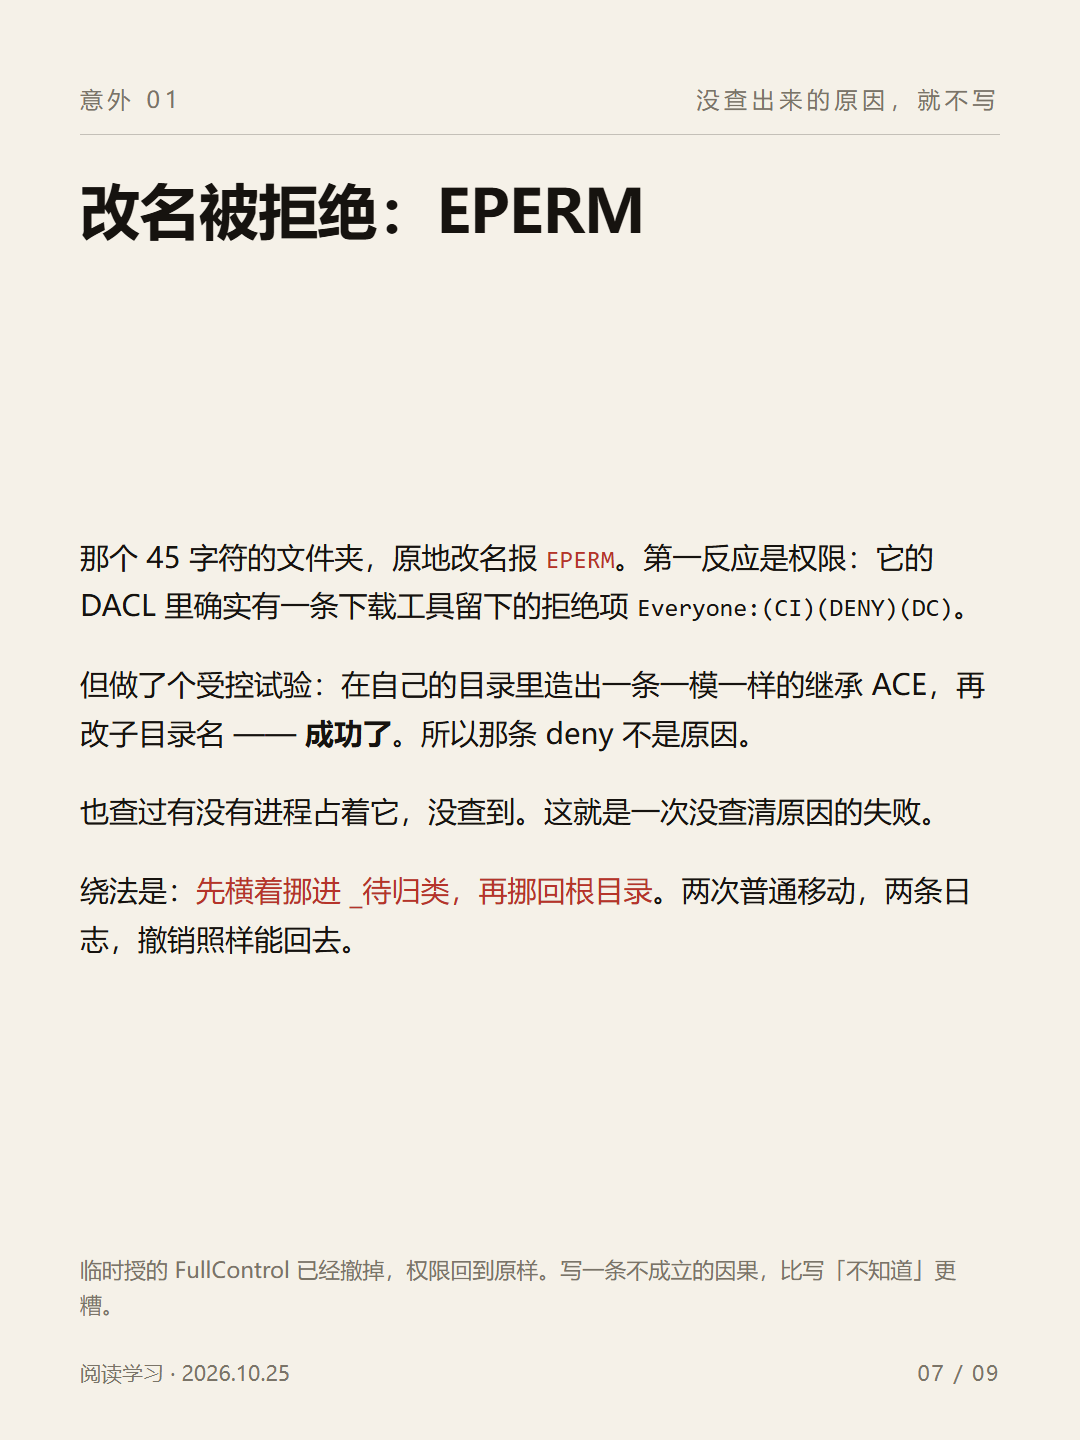
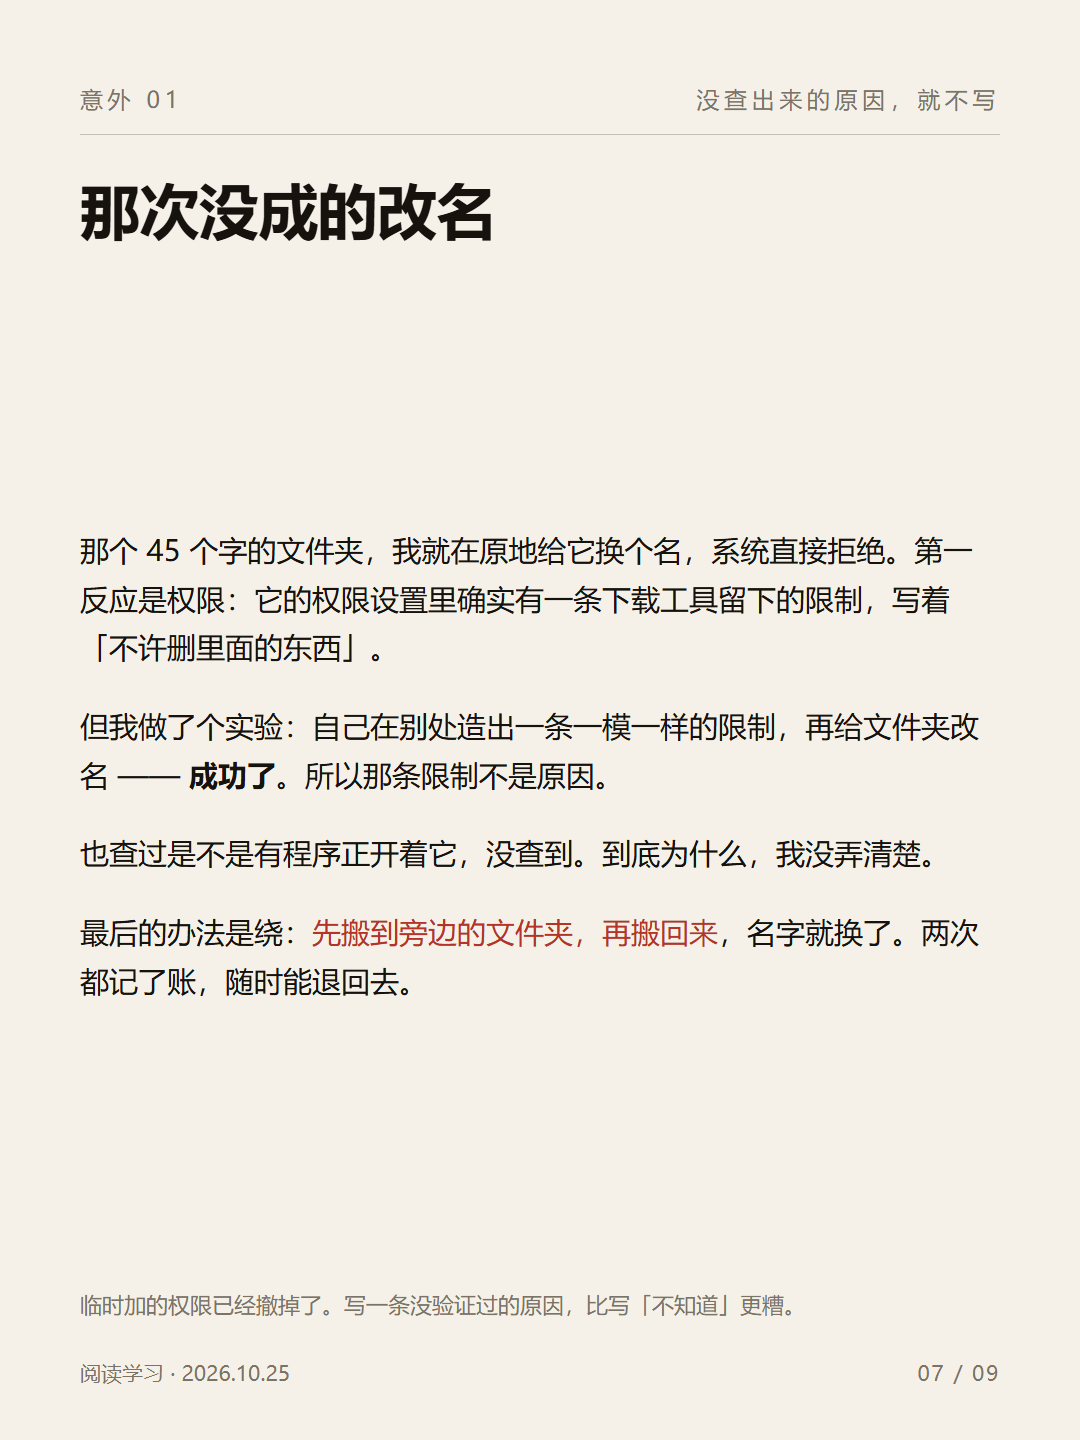
文件夹整理实录：38.63 GB / 53,481 个文件的断舍离
- docs/: 9 页竖版图文（PDF + PNG），可直接发小红书
- plugin/: dsh-folder-janitor v0.1.0 源码快照（体检/清单/执行/撤销四个工具）
- record/: 整理前后数据、时间线、数字汇总
- review/: 独立审核记录
- xhs/: 文案方案

6 条计划、7 次成功移动、0 文件丢失；唯一失手的改名用两步绕行完成。

Changed region(s): [[0.0611, 0.375, 0.9167, 0.6875], [0.0611, 0.875, 0.8861, 0.9375], [0.0611, 0.125, 0.6111, 0.1875]]

diff --git a/xhs/post.md b/xhs/post.md
@@ -1,71 +1,71 @@
 # 小红书发布稿 · 开发过程 + 插件地址
 
-配图：`reading-tidy/build/png/p01.png` … `p09.png`（1080×1440，直接上传），第 10 张用 `p10.png`（插件地址卡）。9 页过程图 + 1 张链接卡，正好 10 图。
+配图：`reading-tidy/build/png/p01.png` … `p09.png`（1080×1440，直接上传），第 10 张用 `p10.png`（插件地址卡）。10 张图，正好。
 
 ---
 
 ## 标题三选一
 
-1. **我写了个插件，整理自己 38G 的文件夹**（18 字，推荐）
-2. 45 个字符的文件夹名，现在叫 MASS 作品集（19 字）
-3. 写了 4 个工具，先拿自己的硬盘开刀（18 字）
+1. **我给自己写了个小工具，收拾 38G 的文件夹**（21 字）
+2. 一个文件夹塞了 4 万 9 千张图，我忍不了了（20 字）
+3. 5 万多个文件，我花一上午理干净了（17 字）
 
-推荐第 1 个：把「写插件」和「真实场景」放在一句里，比单纯晒整理结果更有信息。
+推荐第 2 个：具体、有画面，而且不装。
 
-## 正文（约 760 字，可直接发）
+## 正文（约 780 字，可直接发）
 
-这个文件夹叫「阅读学习」，D 盘，53,481 个文件，38.63 GB。
+我 D 盘有个文件夹叫「阅读学习」，5 万 3 千多个文件，38 个 G。
 
-乱的地方不是文件多，是三件具体的事：莫兰蒂那个文件夹塞了 49,301 张图，占九成；《WKW》.pdf 435MB 和原画集.zip 376MB 就躺在根目录；还有三个名字不是给人读的，最长那个 45 个字符：26-1015【建筑设计事务所】MASS设计集团 MASS Design Group作品集。
+乱的地方其实就三处。莫兰蒂那个文件夹塞了 4 万 9 千张图，占了九成；两个大文件——435M 的《WKW》PDF 和 376M 的原画集压缩包——就摆在门口；还有三个文件夹的名字，最长那个 45 个字，我念都念不出来。
 
-所以我先写工具，再动手。
+直接动手搬这事我干过，后果就是过两天找不到东西。所以这次先写了个小工具，让工具搬。
 
-四个工具，一条不能跳的顺序：体检（只读）、出清单（只读）、执行（边搬边记账）、撤销（日志倒着走）。直接 mv 一把梭我试过，半小时后就想不起文件原来在哪。
+工具干四件事，顺序不能乱：先只看不动，看清里面到底有什么；再列一张单子，写清楚哪个搬到哪、为什么；我点头了才真搬；搬错了能一键退回去。
 
-第一版只会挪文件，对这个目录没用，它乱的是文件夹名。于是加了个手动清单模式：每条 from → to 写出来，逐条校验不越界、不碰 junction、目标存在就拒绝。
+第一版只会挪文件，可我这文件夹乱的是名字。于是又加了个用法：我手动列「这个改成那个」，它负责检查——不能搬到文件夹外面去、不能把原来就有的东西顶掉、目标已经有了就直接拒绝。
 
-接着是抗打击测试。另开一个 AI 专门砸场子，写了 140 项。它挖出 8 个真 bug，最狠的一条是「撤销只比文件大小」，我把目标文件改成同样大小，它照样给我还原。还有：路径里带 junction 能绕出根目录；插件差点把自己的源码目录 plugins/ 搬走，搬完当场失效。
+然后我让另一个 AI 专门来找茬。它写了 140 种刁难情况，挑出 8 个真问题。最吓人的一个：点「撤销」的时候它只看文件大小，我把文件内容改了，它照样给我退回去。还有一次，它差点把我写插件用的那个代码文件夹也搬走了，那文件夹一搬，插件当场就不能用。
 
-最后的账：6 条计划、7 次移动、0 个文件丢失。503 个缓存文件进回收站（没删），两个 400MB 的散件归位，三个目录改成能读的名字。13 个在做的项目文件夹一个没动。
+最后的账：6 条计划、7 次搬运，一个文件没丢。503 个临时文件进了回收站（是收起来，不是删掉），两个大文件归了位，三个名字改成了人话。13 个我还在用的项目文件夹，一个没动。
 
-有一条失手：45 字符那个目录原地改名被系统拒绝（EPERM）。查了 ACL，里面确实有一条下载工具留下的拒绝项，但我做了受控试验——造一条一样的 deny 再改名，成功了。所以那不是原因。原因没查清，我就写成没查清。最后是「先横着挪出去，再挪回根目录」，两步都记了账。
+有一件事没干成：那个 45 个字的长名字，在原地改名，系统直接拒绝。我一开始以为是权限问题，专门做了个实验，发现不是。到底为什么，我没查出来，所以就不瞎猜，最后把它先搬到旁边的文件夹再搬回来，绕过去了。
 
-工具和这次的全套记录都在 GitHub：体检/清单/执行/撤销的源码、5 万条文件的前后快照、一份独立审核报告、还有这 9 页图的 PDF。
+工具和这次的完整记录我都放在 GitHub 了：代码、整理前后的文件清单、还有一个审核员独立核对的报告。
 
 github.com/summersummer-liu/dsh-folder-janitor
 
-插件没打包，路径写死在我这台机器，别指望开箱即用。但思路可以抄：先看、再列清单、最后才搬，搬完记得能撤回。
+这东西现在只在我自己电脑上跑，换台机器不一定能用。不过思路能抄：先看清楚，再列单子，最后才动手，动完记得能后悔。
 
 ## 配图顺序
 
-| 张 | 图 | 这一张在讲什么 |
+| 张 | 图 | 这张在讲什么 |
 |---|---|---|
-| 1 | p01 | 封面：38 GB、53,481 个文件 |
-| 2 | p02 | 乱在哪：三个具体问题 |
-| 3 | p03 | 体检：86% 的文件没有扩展名 |
-| 4 | p04 | 四个工具，不能跳步 |
-| 5 | p05 | 改了什么：5 条对照 |
-| 6 | p06 | 数字：0 丢失、71.9MB 回收、812MB 归位 |
-| 7 | p07 | EPERM：原因没查清，只绕过 |
-| 8 | p08 | 插件差点搬走自己的源码 |
-| 9 | p09 | 三条规则，三件没做的事 |
-| 10 | p10 | 插件地址卡（小红书正文不能放外链） |
+| 1 | p01 | 封面：38 个 G、5 万多个文件 |
+| 2 | p02 | 乱在哪：三件事 |
+| 3 | p03 | 检查完发现，八成文件没有后缀名 |
+| 4 | p04 | 四步：看、列单子、搬、能退 |
+| 5 | p05 | 改了什么：五个对照 |
+| 6 | p06 | 数字：没丢文件、收回 71.9M、归位 812M |
+| 7 | p07 | 那次没改成名的经过（没查到原因就写没查到） |
+| 8 | p08 | 工具差点把我自己的代码搬走 |
+| 9 | p09 | 三条原则，三件没做的事 |
+| 10 | p10 | 插件地址（小红书正文放不了外链） |
 
 ## 标签（8 个）
 
 `#独立开发` `#效率工具` `#文件管理` `#AI编程` `#DeepSeek` `#开源项目` `#建筑学习` `#整理房间之外`
 
-前四个是垂类大词，`#DeepSeek` `#开源项目` 是精准搜索词，`#建筑学习` 拉同行，`#整理房间之外` 是泛流量钩子。别带 `#收纳` `#治愈` `#极简`，气质不对，会推给不对的人。
+前四个是垂类大词，`#DeepSeek` `#开源项目` 是精准搜索词，`#建筑学习` 拉同行，`#整理房间之外` 是泛流量钩子。别带 `#收纳` `#治愈` `#极简`，气质不对，会推给只想看断舍离的人。
 
 ## 首条评论（置顶）
 
-> 插件地址：github.com/summersummer-liu/dsh-folder-janitor
-> 9 页是这次整理的完整过程，含失败记录。问「能不能给我用」的统一回复：还没打包，路径写死，等我不懒了再说。
+> 工具和记录都在这儿：github.com/summersummer-liu/dsh-folder-janitor
+> 还没打包，只在我自己电脑上跑。问「能不能给我用」的统一回复：等我不懒了再说。
 
 ## 发布建议
 
 - 时间：周日 21:00–22:00；次选工作日 12:30。
-- 首图用 p01，标题压在封面留白处（小红书会在图下方再显示标题，别重复）。
-- 正文第一行「这个文件夹叫阅读学习」是钩子，别改成「分享一个整理神器」。
-- 外链只能放评论区和主页，正文里那行 GitHub 地址可能被折叠，评论置顶是主路径。
-- 不要加「建议收藏」「效率提升 300%」这类词，这类笔记的读者对数字更敏感，对口号更反感。
+- 首图用 p01，标题别再压在图上（小红书会在图下再显示一次，重复了难看）。
+- 第一句「我 D 盘有个文件夹叫阅读学习」是钩子，别改成「分享一个整理神器」。
+- 外链只能放评论区和主页，正文那行地址可能被折叠，置顶评论是主路径。
+- 不写「建议收藏」「效率提升 300%」。这类读者对数字敏感，对口号反感。
